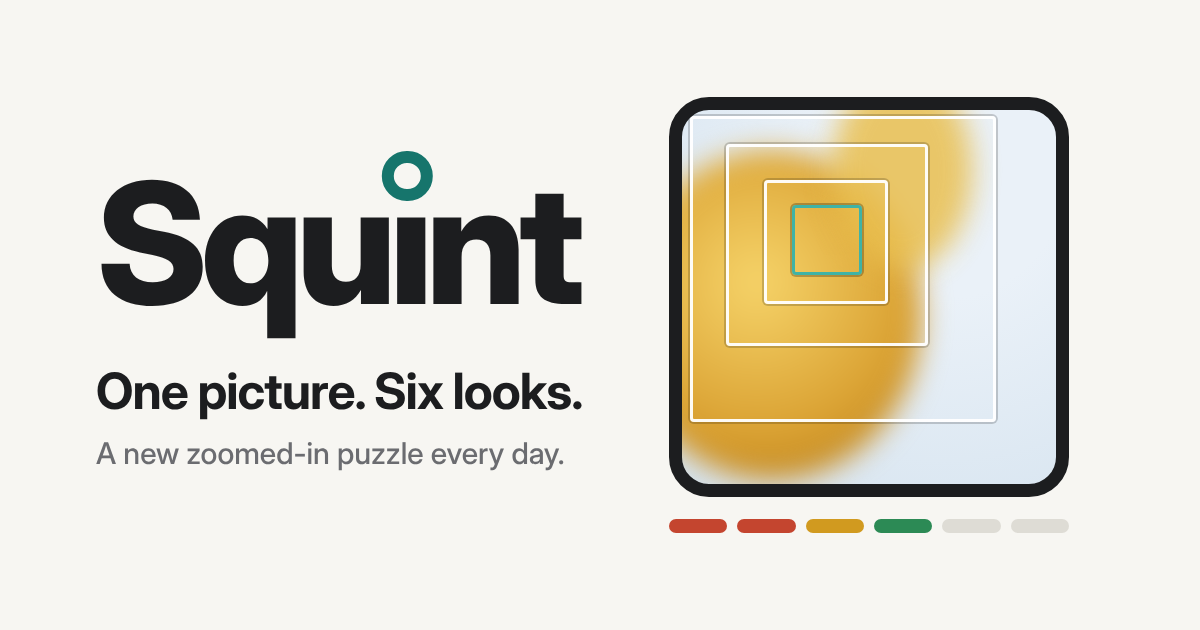
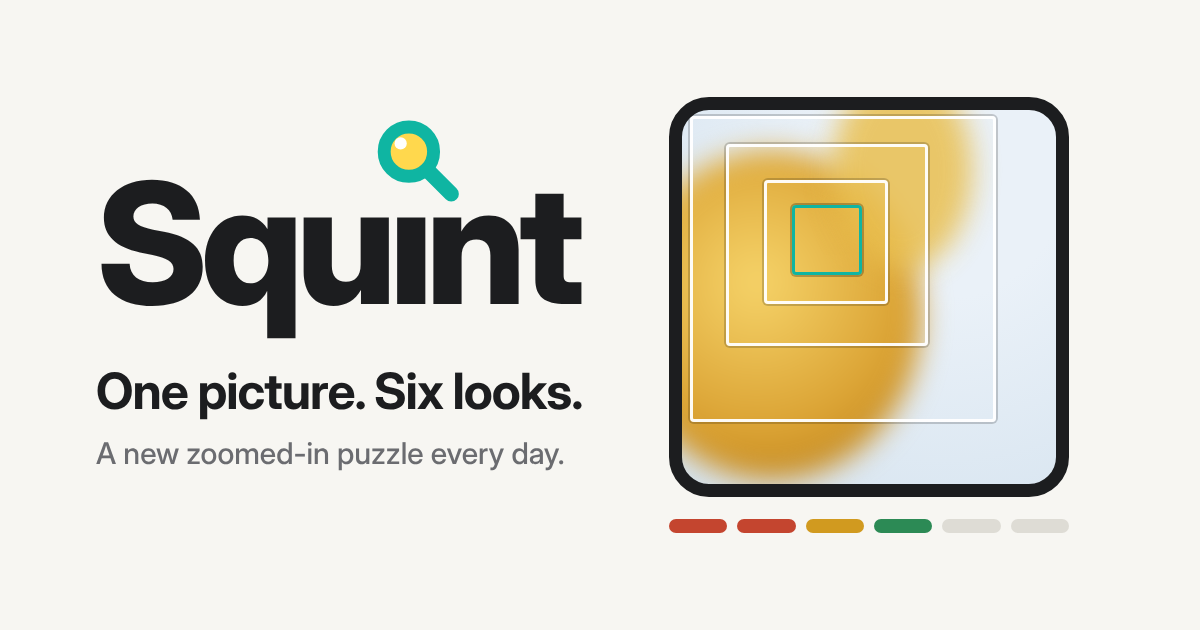
brand update

Changed region(s): [[0.3083, 0.181, 0.4008, 0.3317], [0.6475, 0.4222, 0.7092, 0.4524], [0.6783, 0.3016, 0.7092, 0.3317]]

diff --git a/index.html b/index.html
@@ -6,6 +6,12 @@
 <title>Squint — a daily picture puzzle</title>
 <meta name="description" content="One picture. Six looks. Guess what it is before it zooms all the way out. A new puzzle every day.">
 <meta name="theme-color" content="#16756C">
+<script>
+  try {
+    const t = localStorage.getItem("squint-theme");
+    if (t === "light" || t === "dark") document.documentElement.setAttribute("data-theme", t);
+  } catch (e) {}
+</script>
 
 <!-- Icons -->
 <link rel="icon" href="favicon.svg" type="image/svg+xml">
@@ -42,11 +48,13 @@
     --close: #D19A1F;
     --hit: #2C8A55;
     --frame: #1C1D1F;
+    --logo-glass: #0FB5A2;
+    --logo-lens: #FFD84D;
     --font: "Bricolage Grotesque", "Avenir Next", "Segoe UI", system-ui, sans-serif;
     color-scheme: light;
   }
   @media (prefers-color-scheme: dark) {
-    :root {
+    :root:not([data-theme="light"]) {
       --bg: #141516;
       --surface: #1E2022;
       --ink: #ECEBE7;
@@ -58,8 +66,24 @@
       --close: #E8B84A;
       --hit: #4CC07F;
       --frame: #2E3134;
+      --logo-glass: #2BD4C0;
       color-scheme: dark;
     }
+  }
+  :root[data-theme="dark"] {
+    --bg: #141516;
+    --surface: #1E2022;
+    --ink: #ECEBE7;
+    --muted: #9A9B9F;
+    --line: #33363A;
+    --accent: #3FB3A6;
+    --accent-ink: #0D1A18;
+    --miss: #E06A52;
+    --close: #E8B84A;
+    --hit: #4CC07F;
+    --frame: #2E3134;
+    --logo-glass: #2BD4C0;
+    color-scheme: dark;
   }
 
   *, *::before, *::after { box-sizing: border-box; }
@@ -81,11 +105,11 @@
   }
   .logo { margin: 0; font-size: 2rem; font-weight: 800; letter-spacing: -0.03em; line-height: 1; }
   .logo-i { position: relative; display: inline-block; }
-  .lens {
-    position: absolute; left: 50%; top: -0.06em; width: 0.3em; height: 0.3em; transform: translateX(-50%);
-    border: 0.075em solid var(--accent); border-radius: 50%; background: var(--bg);
+  .logo .mag {
+    position: absolute; left: 50%; top: -0.27em; width: 0.56em; height: 0.56em;
+    transform: translateX(-38%); overflow: visible;
   }
-  .meta { display: flex; align-items: center; gap: 8px; color: var(--muted); }
+  .meta { display: flex; align-items: center; gap: 6px; color: var(--muted); }
   .meta #num { margin-right: 4px; }
   .icon-btn {
     width: 40px; height: 40px; display: grid; place-items: center;
@@ -197,10 +221,11 @@
 <body>
 <div class="wrap">
   <header class="top">
-    <h1 class="logo" aria-label="Squint"><span aria-hidden="true">Squ<span class="logo-i">ı<span class="lens"></span></span>nt</span></h1>
+    <h1 class="logo" aria-label="Squint"><span aria-hidden="true">Squ<span class="logo-i">ı<svg class="mag" viewBox="0 0 40 40"><circle cx="16" cy="16" r="10.5" fill="var(--logo-lens)" stroke="var(--logo-glass)" stroke-width="5.5"/><line x1="24" y1="24" x2="34" y2="34" stroke="var(--logo-glass)" stroke-width="6.5" stroke-linecap="round"/><circle cx="12.5" cy="12.5" r="2.6" fill="#FFFFFF"/></svg></span>nt</span></h1>
     <div class="meta">
       <span id="num"></span>
       <button class="icon-btn" id="helpBtn" aria-label="How to play">?</button>
+      <button class="icon-btn" id="themeBtn" aria-label="Switch to dark mode"></button>
       <button class="icon-btn" id="statsBtn" aria-label="Your stats">
         <svg width="18" height="18" viewBox="0 0 18 18" aria-hidden="true"><rect x="2" y="9" width="3" height="7" rx="1" fill="currentColor"/><rect x="7.5" y="4" width="3" height="12" rx="1" fill="currentColor"/><rect x="13" y="7" width="3" height="9" rx="1" fill="currentColor"/></svg>
       </button>
@@ -784,6 +809,32 @@ document.querySelectorAll("dialog").forEach(d => {
   d.querySelectorAll("[data-close]").forEach(b => b.addEventListener("click", () => d.close()));
   d.addEventListener("click", e => { if (e.target === d) d.close(); }); // click outside to close
 });
+
+/* =========================================================
+   LIGHT / DARK MODE
+   Follows the device setting until the player picks one; the choice is remembered.
+   ========================================================= */
+const MOON = '<svg width="18" height="18" viewBox="0 0 24 24" aria-hidden="true"><path d="M20 14.5A8 8 0 0 1 9.5 4a8 8 0 1 0 10.5 10.5z" fill="currentColor"/></svg>';
+const SUN = '<svg width="20" height="20" viewBox="0 0 24 24" aria-hidden="true" fill="none" stroke="currentColor" stroke-width="2" stroke-linecap="round"><circle cx="12" cy="12" r="4.2" fill="currentColor" stroke="none"/><path d="M12 2.5v2.2M12 19.3v2.2M2.5 12h2.2M19.3 12h2.2M5.3 5.3l1.6 1.6M17.1 17.1l1.6 1.6M5.3 18.7l1.6-1.6M17.1 6.9l1.6-1.6"/></svg>';
+const systemDark = matchMedia("(prefers-color-scheme: dark)");
+
+function currentTheme() {
+  return document.documentElement.getAttribute("data-theme") || (systemDark.matches ? "dark" : "light");
+}
+function updateThemeButton() {
+  const dark = currentTheme() === "dark";
+  $("themeBtn").innerHTML = dark ? SUN : MOON;
+  $("themeBtn").setAttribute("aria-label", dark ? "Switch to light mode" : "Switch to dark mode");
+  document.querySelector('meta[name="theme-color"]').setAttribute("content", dark ? "#141516" : "#F7F6F2");
+}
+$("themeBtn").addEventListener("click", () => {
+  const next = currentTheme() === "dark" ? "light" : "dark";
+  document.documentElement.setAttribute("data-theme", next);
+  try { localStorage.setItem("squint-theme", next); } catch {}
+  updateThemeButton();
+});
+systemDark.addEventListener("change", updateThemeButton);
+updateThemeButton();
 
 let seenHelp = false;
 try { seenHelp = localStorage.getItem("squint-seen-help") === "1"; } catch {}
